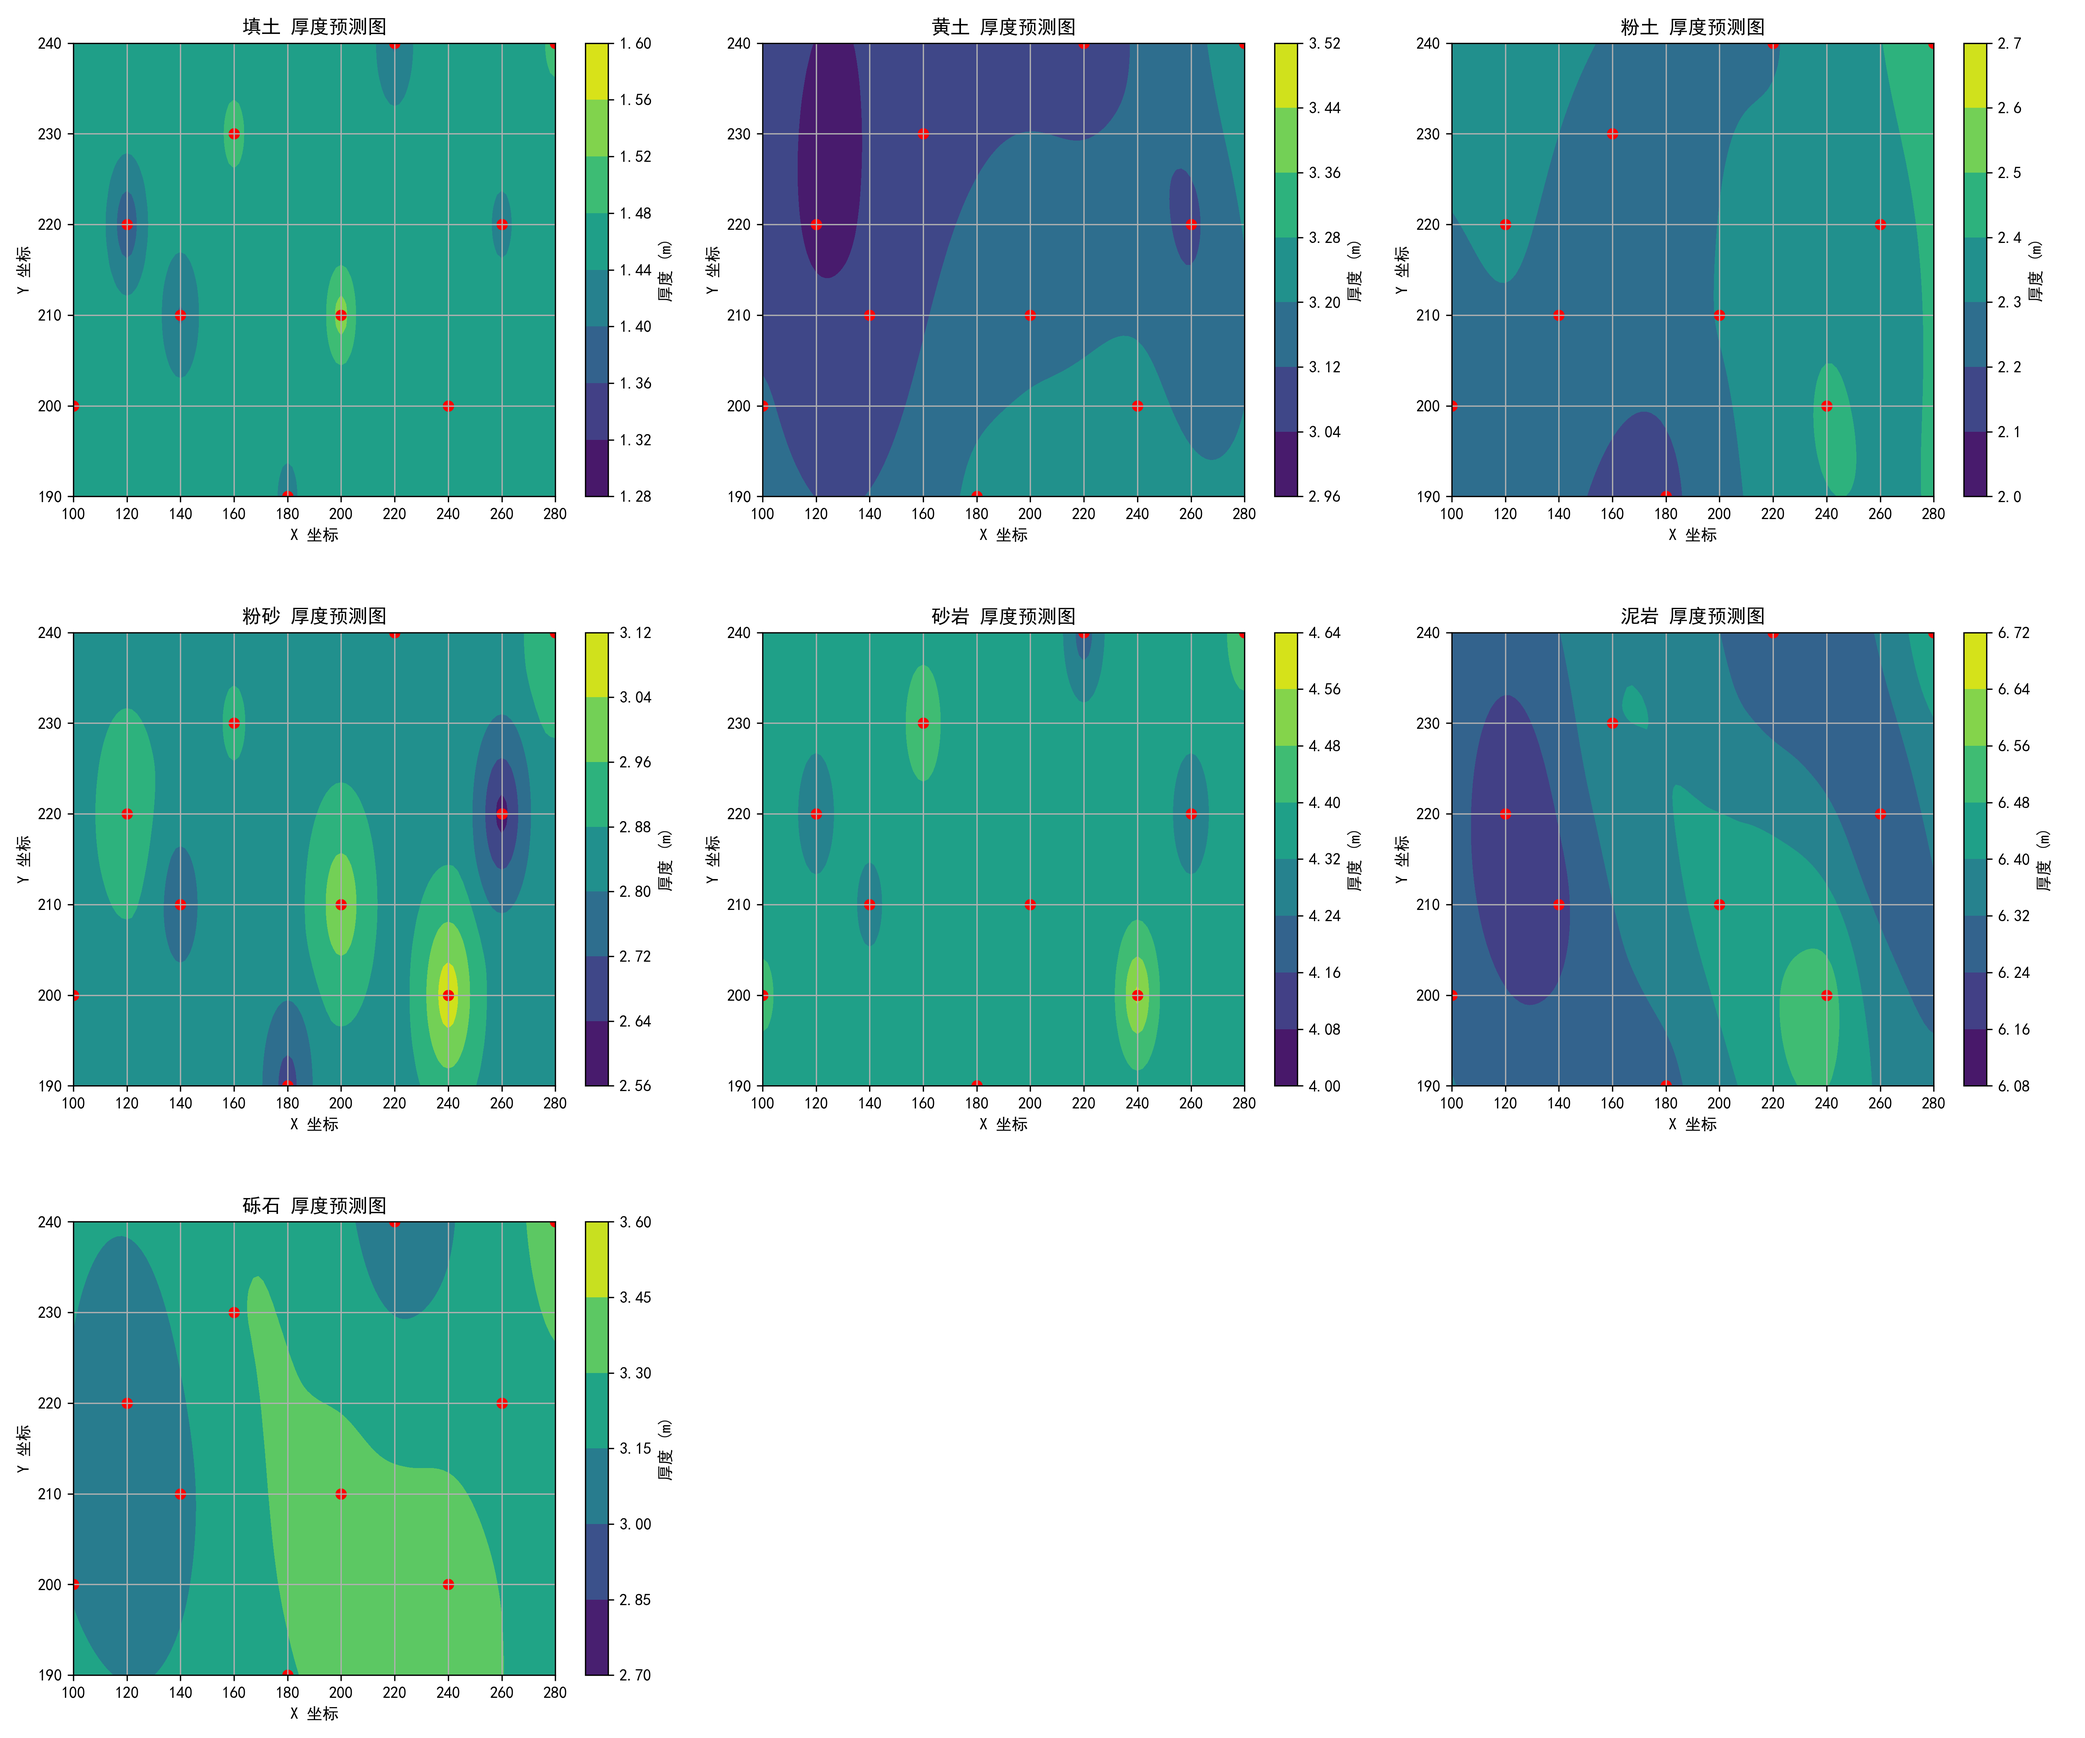
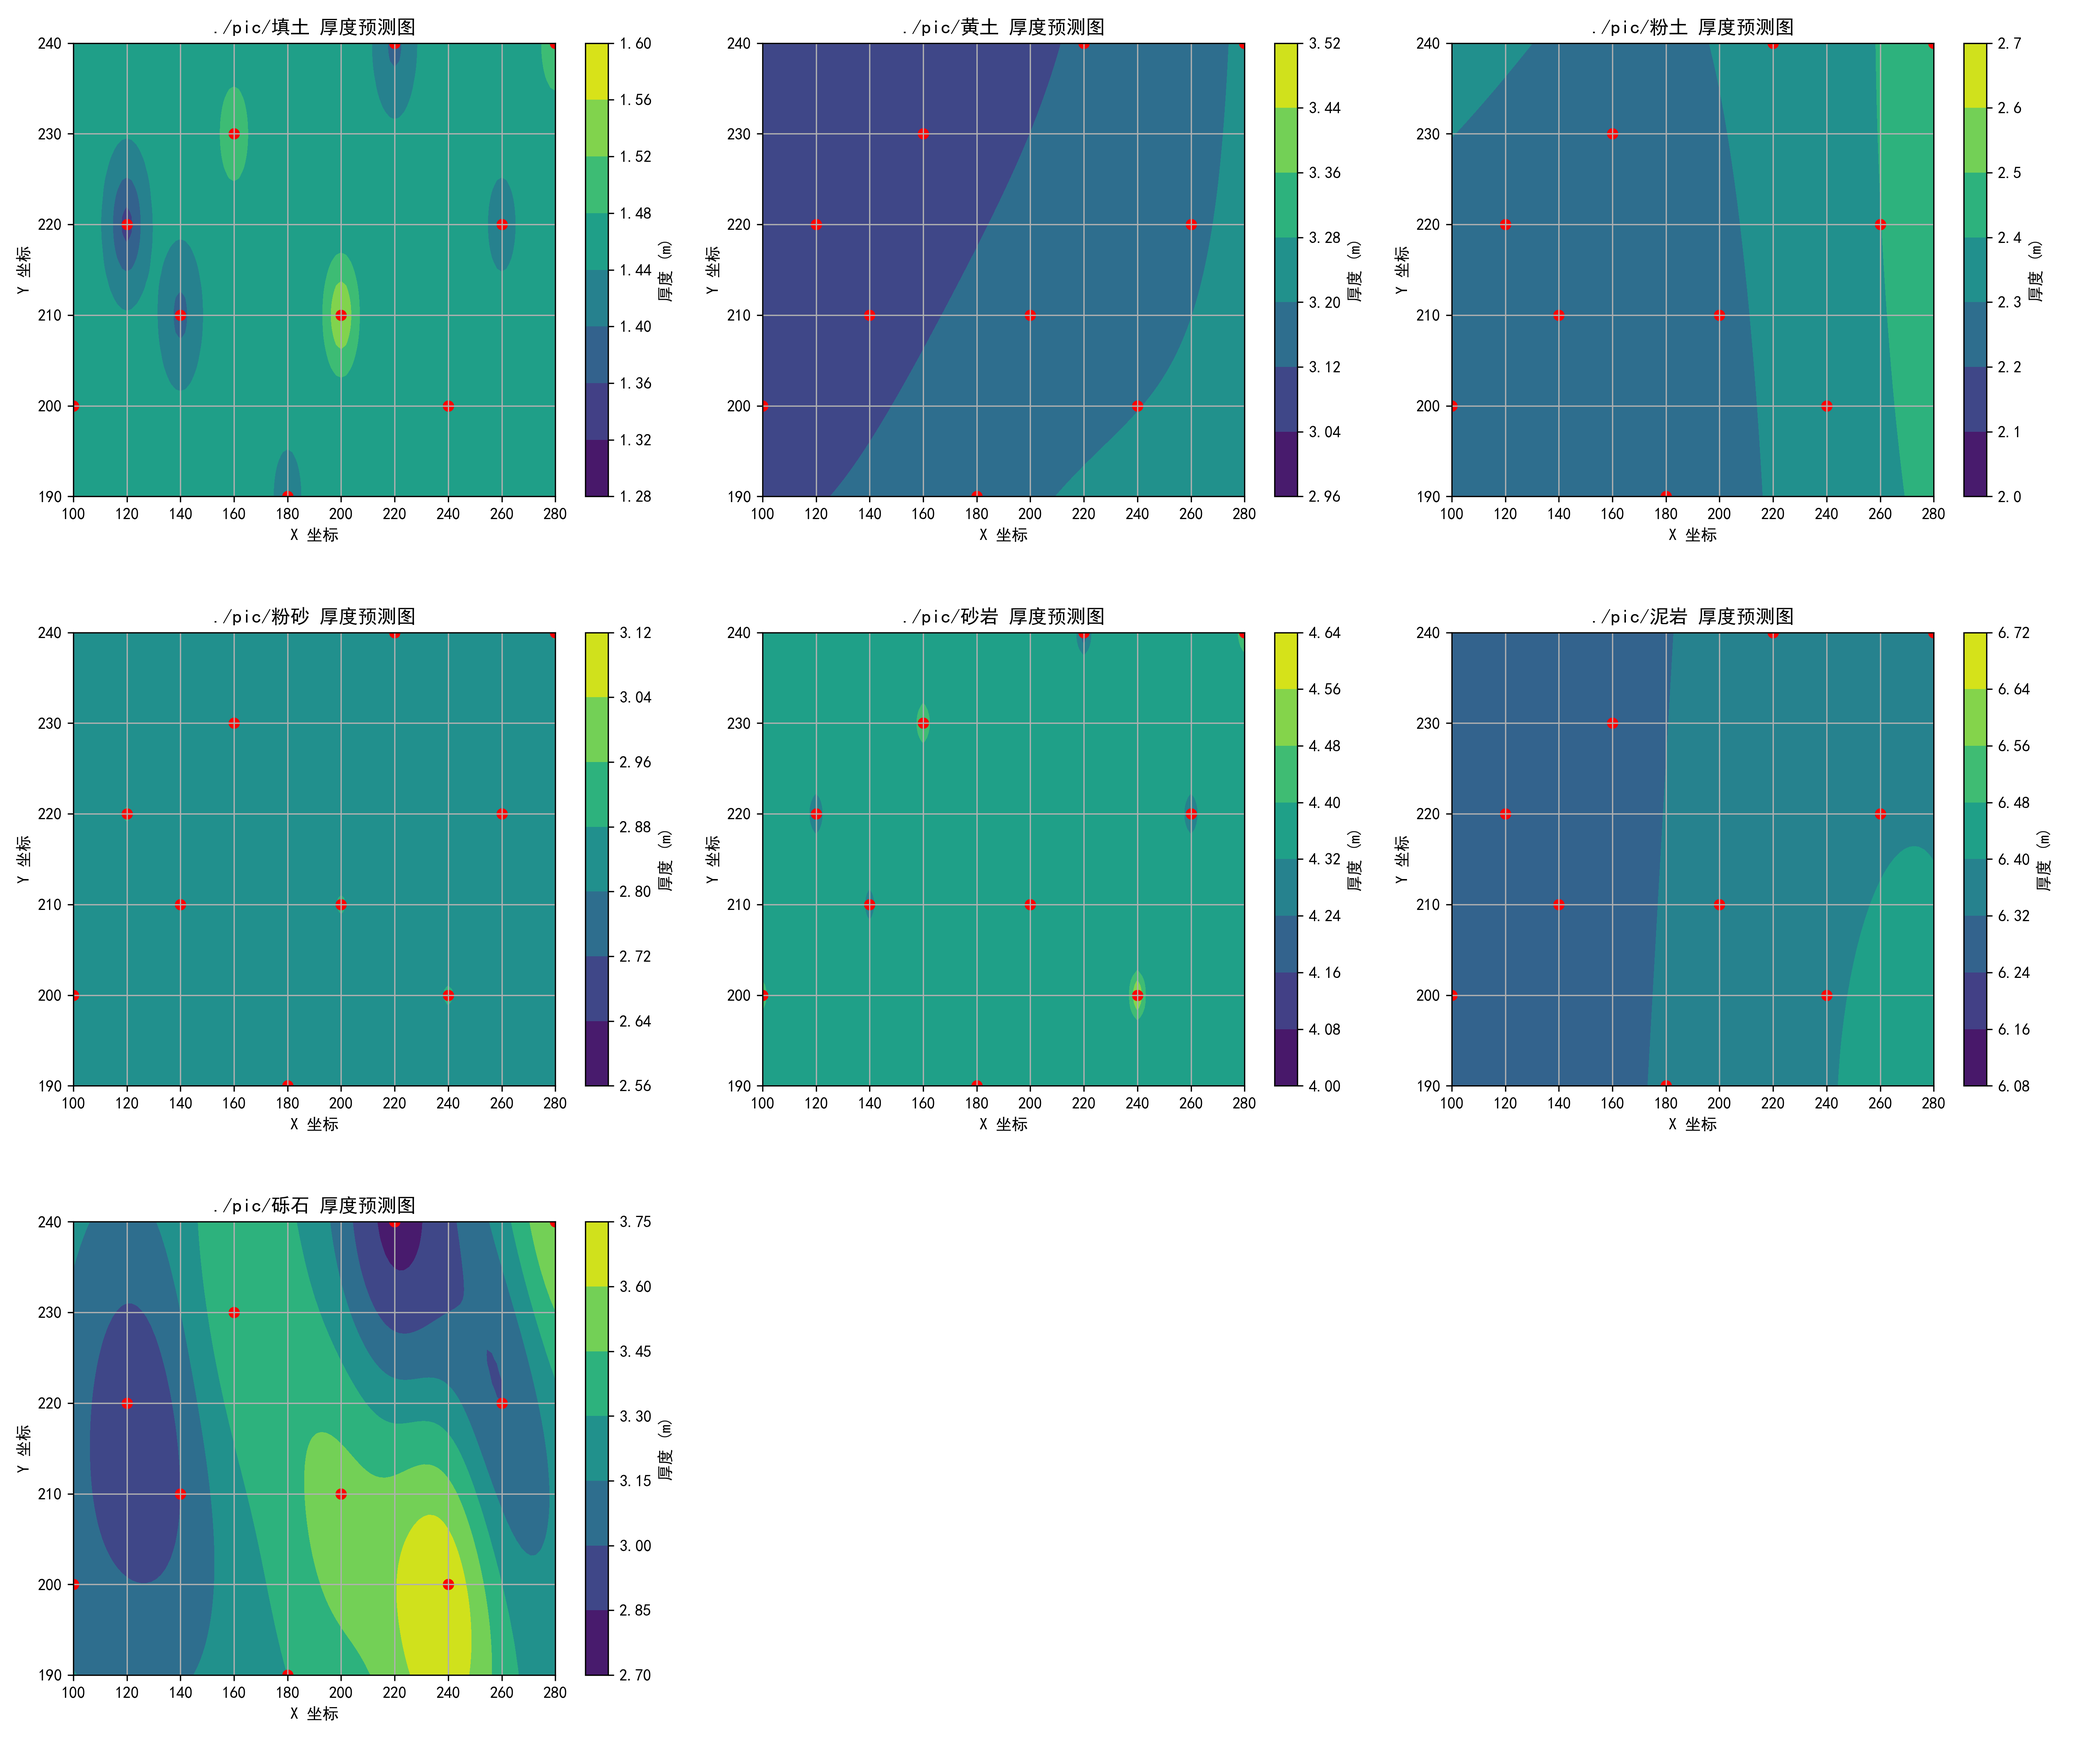
Add optimization algorithm

diff --git a/opt/aca_test.py b/opt/aca_test.py
@@ -1,0 +1,33 @@
+from sko.ACA import ACA_TSP
+import numpy as np
+from scipy import spatial
+import pandas as pd
+import matplotlib.pyplot as plt
+
+num_points = 300
+
+# 用随机数生成 num_points 个点
+points_coordinate = np.random.rand(num_points, 2)
+# 调用 scipy 自动计算点与点之间的欧拉距离，生成距离矩阵
+distance_matrix = spatial.distance.cdist(
+    points_coordinate, points_coordinate, metric='euclidean')
+
+def cal_total_distance(routine):
+    num_points, = routine.shape
+    # 计算距离和
+    return sum([distance_matrix[routine[i % num_points], routine[(i + 1) % num_points]] for i in range(num_points)])
+
+aca = ACA_TSP(func=cal_total_distance, n_dim=num_points,
+              size_pop=450, max_iter=200,
+              distance_matrix=distance_matrix
+              )
+
+best_x, best_y = aca.run()
+print('best_x: \n', best_x, '\n', 'best_y: ', best_y)
+
+fig, ax = plt.subplots(1, 2)
+best_circuit = np.concatenate([best_x, [best_x[0]]])
+best_points_coordinate = points_coordinate[best_circuit, :]
+ax[0].plot(best_points_coordinate[:, 0], best_points_coordinate[:, 1], 'o-r', markersize=3)
+pd.DataFrame(aca.y_best_history).cummin().plot(ax=ax[1])
+plt.show()

diff --git a/krige_grid_predict.py b/krige_grid_predict.py
@@ -5,7 +5,7 @@ from pykrige.ok import OrdinaryKriging
 
 plt.rcParams['font.sans-serif'] = ['SimHei']
 
-df = pd.read_excel("钻孔数据.xlsx")
+df = pd.read_excel("./data/钻孔数据.xlsx")
 layers = df["地层"].unique()
 
 # 设置网格范围
@@ -28,7 +28,7 @@ for idx, layer in enumerate(layers):
 
     OK = OrdinaryKriging(
         x, y, z,
-        variogram_model='spherical',
+        variogram_model='gaussian',
         verbose=False,
         enable_plotting=False
     )
@@ -51,6 +51,6 @@ for j in range(len(layers), len(axs)):
 plt.tight_layout()
 plt.subplots_adjust(hspace=0.3)
 
-plt.savefig("地层厚度预测图.png", dpi=300)
+plt.savefig("./pic/地层厚度预测图.png", dpi=300)
 plt.show()
 
